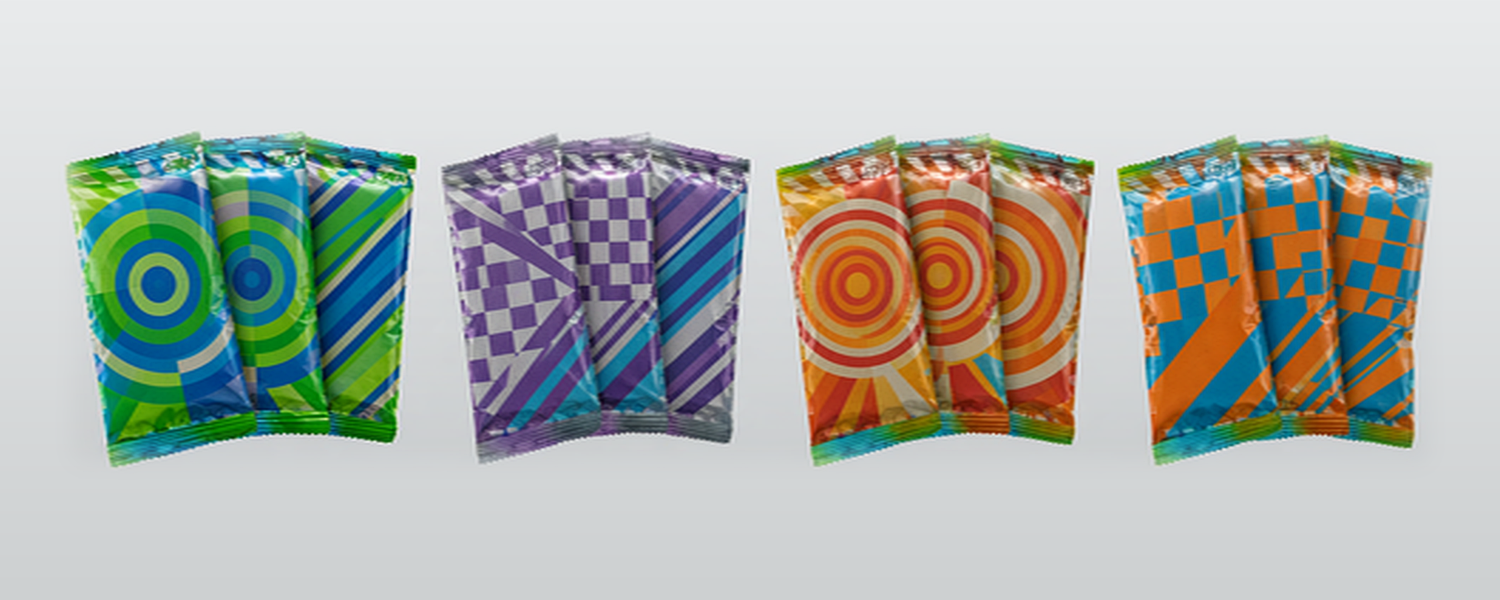
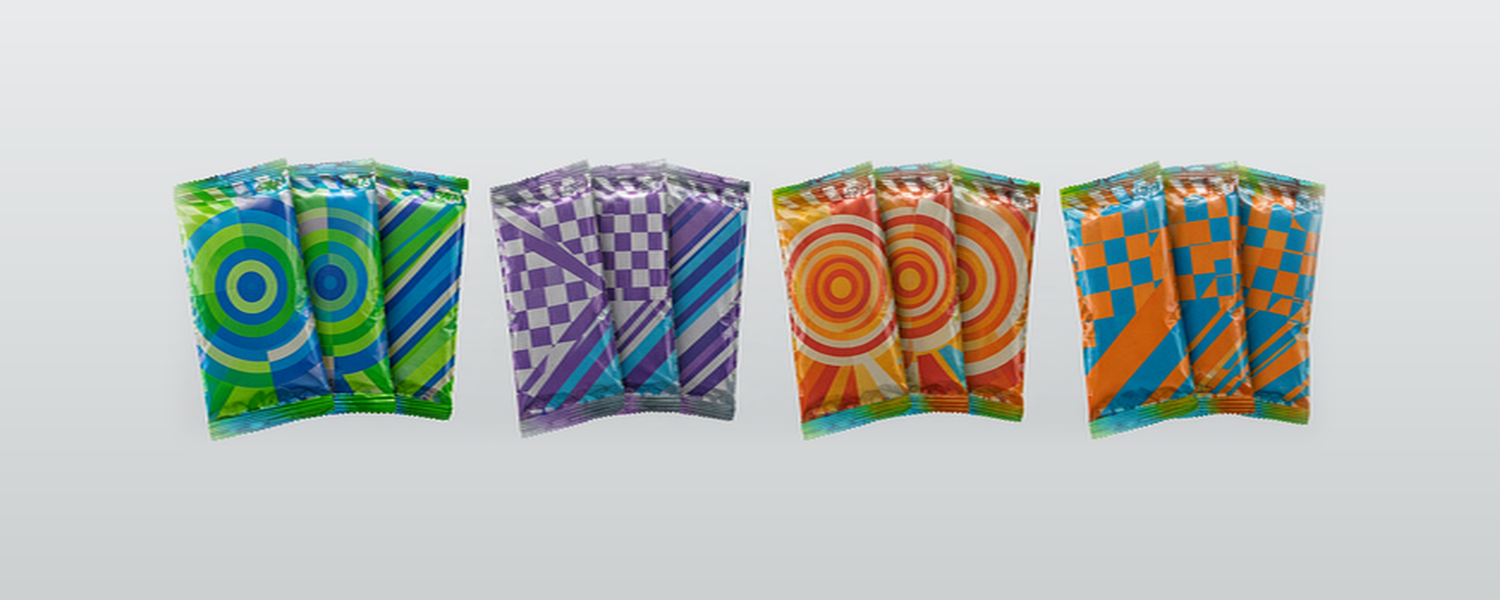
fix: shrink candy bags for full safe margins under object-cover (v=20261125c)

diff --git a/app/[lang]/solutions/[slug]/SolutionDetailContent.tsx b/app/[lang]/solutions/[slug]/SolutionDetailContent.tsx
@@ -42,7 +42,7 @@ const packagingIcons: Record<string, React.ReactNode> = {
 };
 
 const methodImages: Record<string, string> = {
-  candy: "/images/solutions/detail/candy-bags.png?v=20261125b",
+  candy: "/images/solutions/detail/candy-bags.png?v=20261125c",
   "self-adhesive": "/images/solutions/detail/self-adhesive-bags.png",
   "four-sides": "/images/solutions/detail/four-sides-bags.png?v=20261119",
   banding: "/images/solutions/detail/banding.png?v=20261119",

diff --git a/app/[lang]/solutions/SolutionsContent.tsx b/app/[lang]/solutions/SolutionsContent.tsx
@@ -32,7 +32,7 @@ const packagingIcons = [
 
 // Solutions 页面头图（建议尺寸：宽幅横图，如 1200×500px 左右，16:9 或更宽）
 const methodImages = [
-  "/images/solutions/detail/candy-bags.png?v=20261125b",
+  "/images/solutions/detail/candy-bags.png?v=20261125c",
   "/images/solutions/detail/self-adhesive-bags.png",
   "/images/solutions/detail/four-sides-bags.png?v=20261119",
   "/images/solutions/detail/banding.png?v=20261119",
